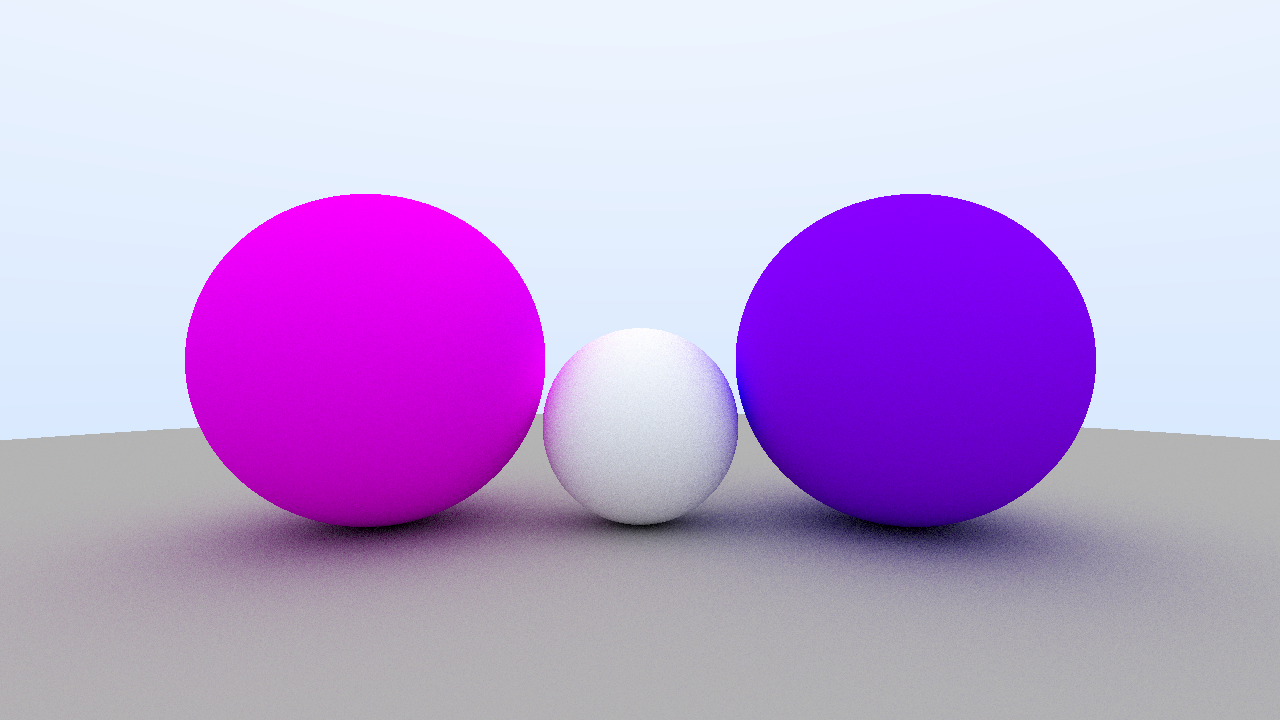
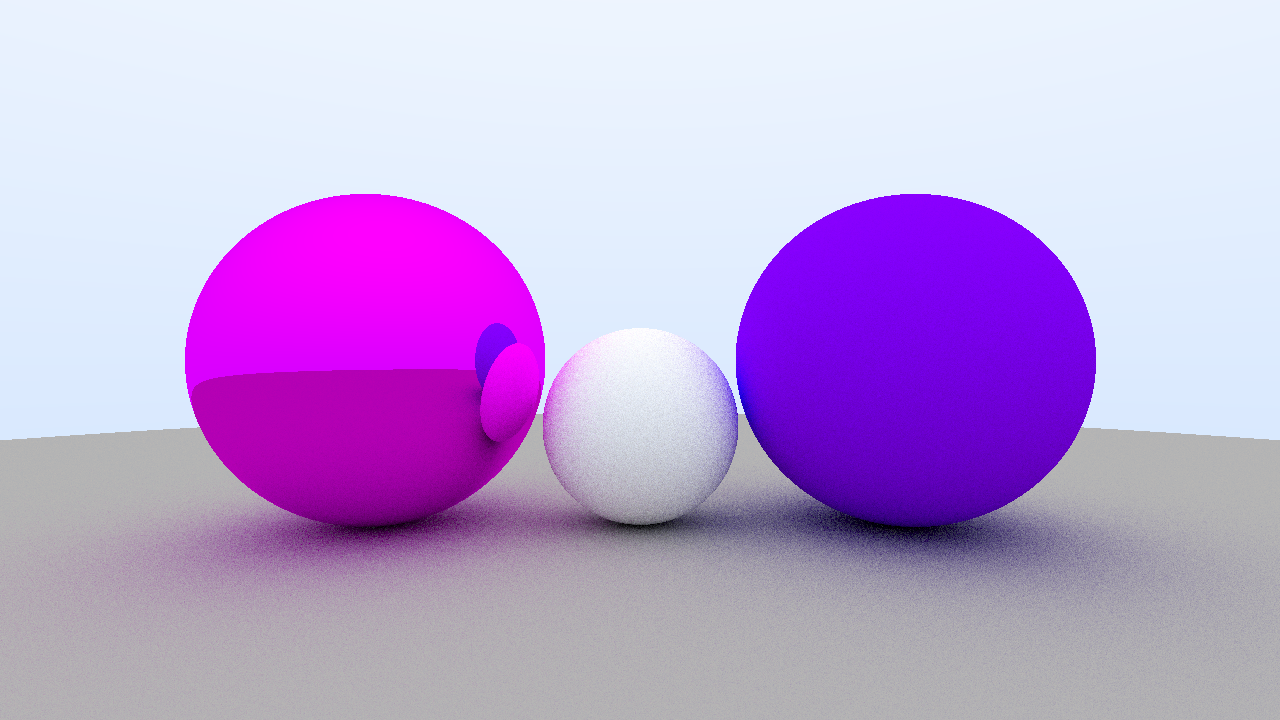
metals

Changed region(s): [[0.125, 0.4278, 0.4688, 0.7944], [0.5625, 0.7028, 0.8438, 0.7944], [0.5625, 0.55, 0.5938, 0.6111]]

diff --git a/src/materials/metal.rs b/src/materials/metal.rs
@@ -1,0 +1,39 @@
+use nalgebra::Vector3;
+
+use crate::{
+    shapes::ray::Ray,
+    utils::math::{reflect, unit_rand_vec},
+};
+
+use super::material::{Material, MaterialPayload};
+
+#[derive(Clone)]
+pub struct MetalMaterial {
+    pub albedo: Vector3<f64>,
+    pub fuzz: f64,
+}
+
+impl Material for MetalMaterial {
+    fn scatter(
+        &self,
+        r_in: &Ray,
+        intersection_point: &Vector3<f64>,
+        normal: &Vector3<f64>,
+    ) -> Option<MaterialPayload> {
+        let reflected = reflect(&r_in.direction.normalize(), normal);
+        let dir = reflected + self.fuzz * unit_rand_vec();
+
+        let payload = Some(MaterialPayload {
+            scattered: Ray {
+                origin: *intersection_point,
+                direction: dir,
+            },
+            attenuation: self.albedo,
+        });
+
+        if dir.dot(normal) > 0.0 {
+            return payload;
+        }
+        None
+    }
+}

diff --git a/src/utils/app.rs b/src/utils/app.rs
@@ -2,7 +2,10 @@ use std::sync::Arc;
 
 use nalgebra::Vector3;
 
-use crate::{materials::diffuse::DiffuseMaterial, shapes::sphere::Sphere};
+use crate::{
+    materials::{diffuse::DiffuseMaterial, metal::MetalMaterial},
+    shapes::sphere::Sphere,
+};
 
 use super::{
     camera::{self, Camera},
@@ -36,8 +39,9 @@ pub fn create(name: &'static str, version: &'static str) -> Application {
             Sphere {
                 position: Vector3::new(-0.8, 0.0, 0.0),
                 radius: 0.5,
-                mat: Some(Arc::new(DiffuseMaterial {
+                mat: Some(Arc::new(MetalMaterial {
                     albedo: Vector3::new(1.0, 0.0, 1.0),
+                    fuzz: 0.0,
                 })),
             },
             Sphere {

diff --git a/src/utils/renderer.rs b/src/utils/renderer.rs
@@ -40,7 +40,7 @@ impl Renderer {
                 let mut r = 0.0;
                 let mut g = 0.0;
                 let mut b = 0.0;
-                let samples = 60.0;
+                let samples = 30.0;
                 let gamma = 2.0;
 
                 for _ in 0..(samples as u32) {

diff --git a/src/materials/mod.rs b/src/materials/mod.rs
@@ -1,2 +1,3 @@
 pub mod diffuse;
 pub mod material;
+pub mod metal;

diff --git a/README.md b/README.md
@@ -2,7 +2,7 @@
 
 A hobby CPU-based ray tracer built from scratch in Rust
 
-![example](https://media.discordapp.net/attachments/833285965019217980/1036197345001472030/simple.png?width=1214&height=683)
+![example](https://media.discordapp.net/attachments/833285965019217980/1036234290809278504/simple.png?width=1214&height=683)
 
 ## Resources
 
